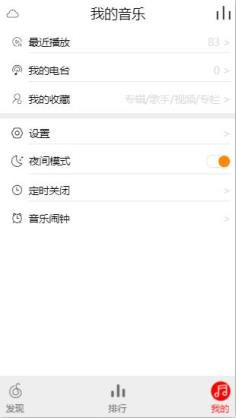
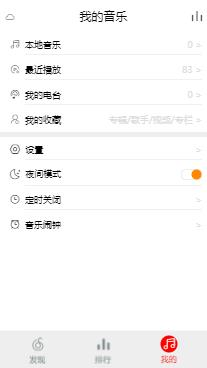
修改tab页布局

diff --git a/src/public/MHead.vue b/src/public/MHead.vue
@@ -4,23 +4,25 @@
     display: flex;
     justify-content: space-between;
     align-items: center;
-    height: 30px;
+    height: 44px;
+    line-height: 44px;
     font-size: 24px;
     text-align: left;
-    box-sizing: border-box;
     background-color: #fff;
   }
   .search {
     flex: 1;
-    height: 100%;
+    margin-right: 5px;
+    height: 30px;
+    line-height: 30px;
     text-align: center;
     outline: none;
     background-color: #eee;
     border-radius: 15px;
   }
   .icon {
-    flex: 0 0 40px;
-    font-size: 24px;
+    widows: 40px;
+    font-size: 20px;
   }
   .icon:last-child {
     text-align: right;
@@ -41,9 +43,9 @@
 <template>
   <div class="m-head">
     <i class="icon iconfont" :class="iconType"></i>
-    <div class="search" v-if="inputShow">
+    <div class="search" v-if="inputShow" @click="moveToSearch">
       <i class="iconfont icon-search"></i>
-      <input type="text" class="input" placeholder="猜你喜欢" @click="moveToSearch">
+      <input type="text" class="input" placeholder="猜你喜欢">
     </div>
     <span v-if="text">我的音乐</span>
     <i class="icon iconfont icon-weibiaoti-"></i>
@@ -53,7 +55,7 @@
 <script>
 import {mapGetters} from 'vuex'
 export default {
-  props: ['iconType', 'inputShow', 'text', 'trends'],
+  props: ['iconType', 'inputShow', 'text'],
   data () {
     return {
       activeShow: true

diff --git a/src/public/SearchHead.vue b/src/public/SearchHead.vue
@@ -4,7 +4,7 @@
     display: flex;
     justify-content: space-between;
     align-items: center;
-    height: 30px;
+    height: 44px;
     font-size: 24px;
     text-align: left;
     box-sizing: border-box;
@@ -15,7 +15,7 @@
     margin-right: 10px;
     flex: 1;
     display: flex;
-    height: 100%;
+    height: 30px;
     outline: none;
     background-color: #eee;
     border-radius: 15px;

diff --git a/src/public/SongList.vue b/src/public/SongList.vue
@@ -6,7 +6,7 @@
     letter-spacing: 1px;
     padding: 5px;
     box-sizing: border-box;
-    font-size: 16px;
+    font-size: 18px;
   }
   .lists-wrapper{
     width: 100%;
@@ -20,7 +20,7 @@
   .num{
     margin-right: 10px;
     flex: 0 0 28px;
-    font-size: 14px;
+    font-size: 18px;
   }
   .names{
     flex: 1;

diff --git a/src/public/SongSheet.vue b/src/public/SongSheet.vue
@@ -14,10 +14,10 @@
     position: fixed;
     top: 0;
     width: 100%;
-    height: 40px;
+    height: 44px;
     box-sizing: border-box;
     font-size: 20px;
-    line-height: 40px;
+    line-height: 44px;
     color: #fff;
     background-color: rgb(202, 34, 5);
     z-index: 100;

diff --git a/src/public/Tab.vue b/src/public/Tab.vue
@@ -4,7 +4,7 @@
   bottom: 0;
   left: 0;
   display: flex;
-  justify-content: space-between;
+  justify-content: space-around;
   padding: 10px;
   width: 100%;
   box-sizing: border-box;
